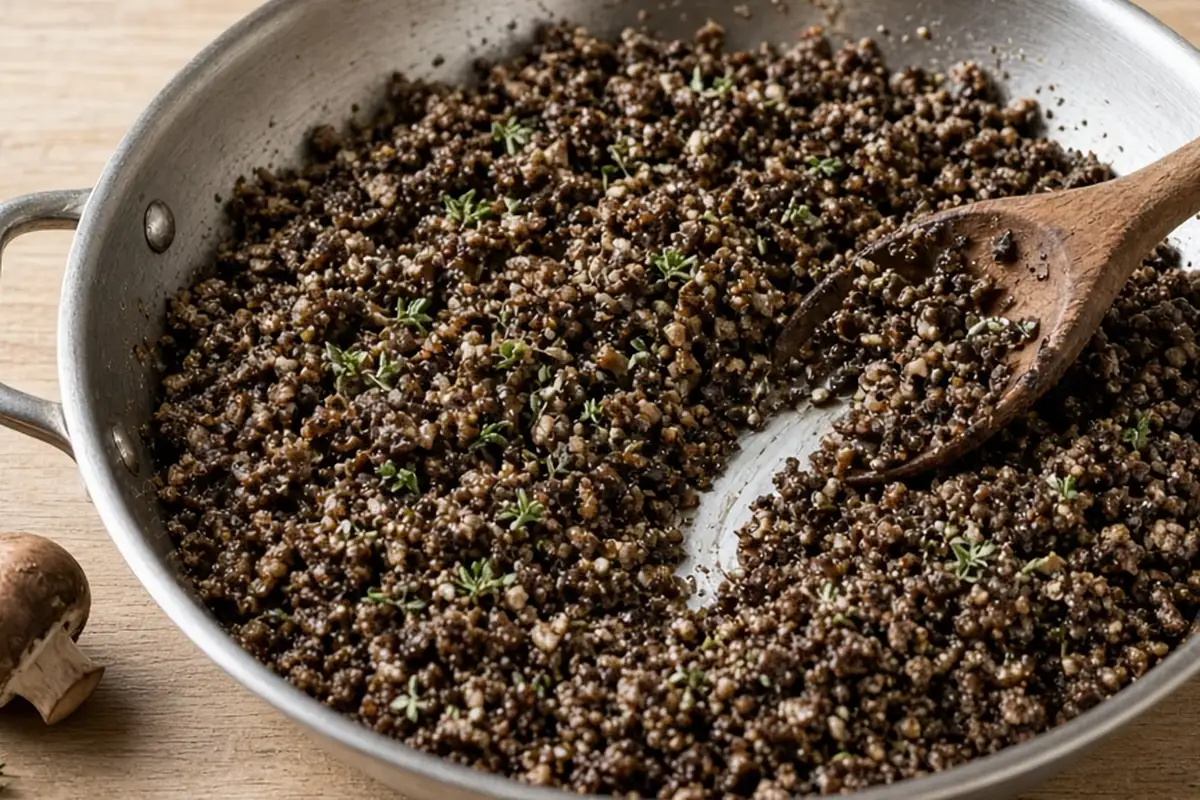
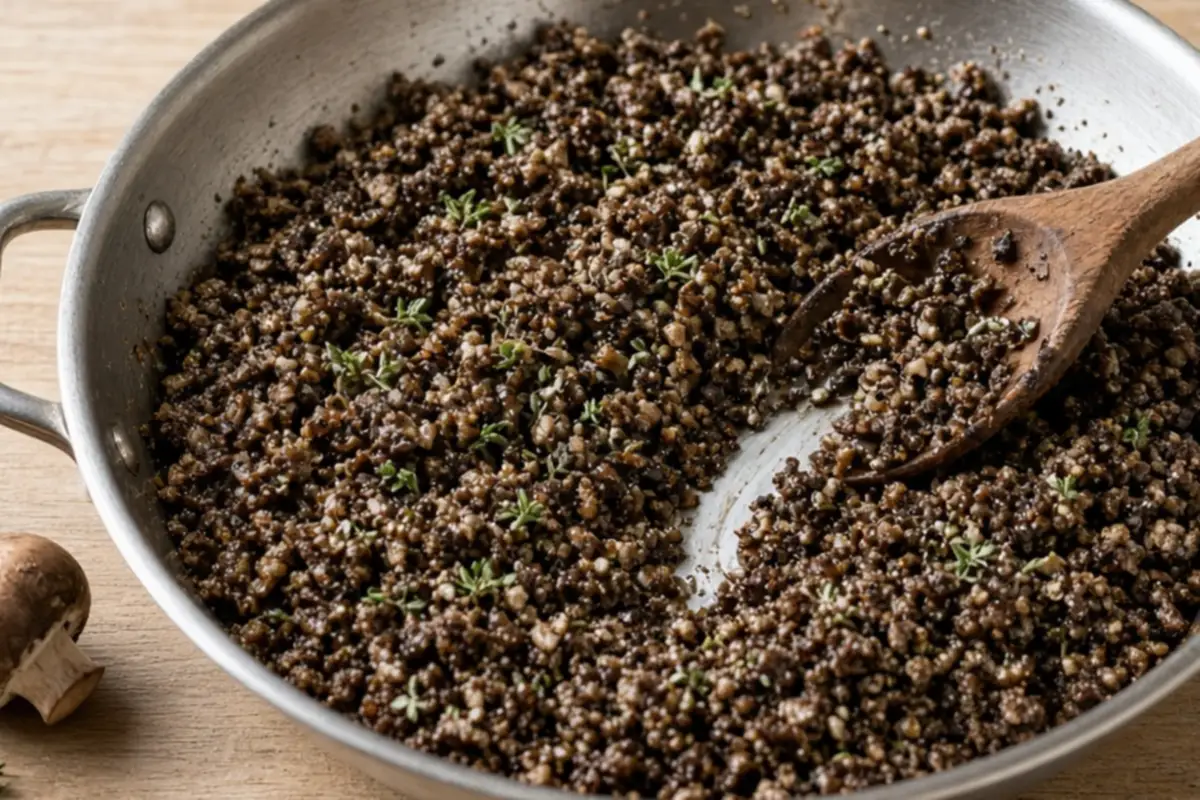
Denoise duxelles and steak heroes to fit the 110 KB budget
Light 0x0.7 blur on the 1200x800 sources to remove generator grain; reran make-hero, OG cards and schema crops. Attempt log updated.

diff --git a/docs/image-briefs/november-2026-heroes.md b/docs/image-briefs/november-2026-heroes.md
@@ -103,4 +103,5 @@ olive oil in a glass jar and a small bowl*
 
 ## Attempt log
 
-- (none yet)
+- 2026-11-03, attempt 1 (all three): generated 1024x576 (16:9) sources, center-cropped to 864x576 (3:2), Lanczos-upscaled to 1200x800, then make-hero.sh / make-og-cards.sh / make-schema-crops.sh. 1:1 crops checked: food centered, no gravity override needed. Marinated: hero.webp 104.3 KB (q82), within budget. Duxelles 129.8 KB and steak 122.7 KB at q62: over the 110 KB budget because of generator grain.
+- 2026-11-03, attempt 2 (duxelles, steak): `magick up.png -blur 0x0.7` on the 1200x800 source to remove grain (0x0.5 was not enough; 0x0.9 was more than needed), then reran all three scripts. Duxelles hero.webp 109.5 KB (q66), steak 109.1 KB (q70). Both under budget, and both still look sharp.
